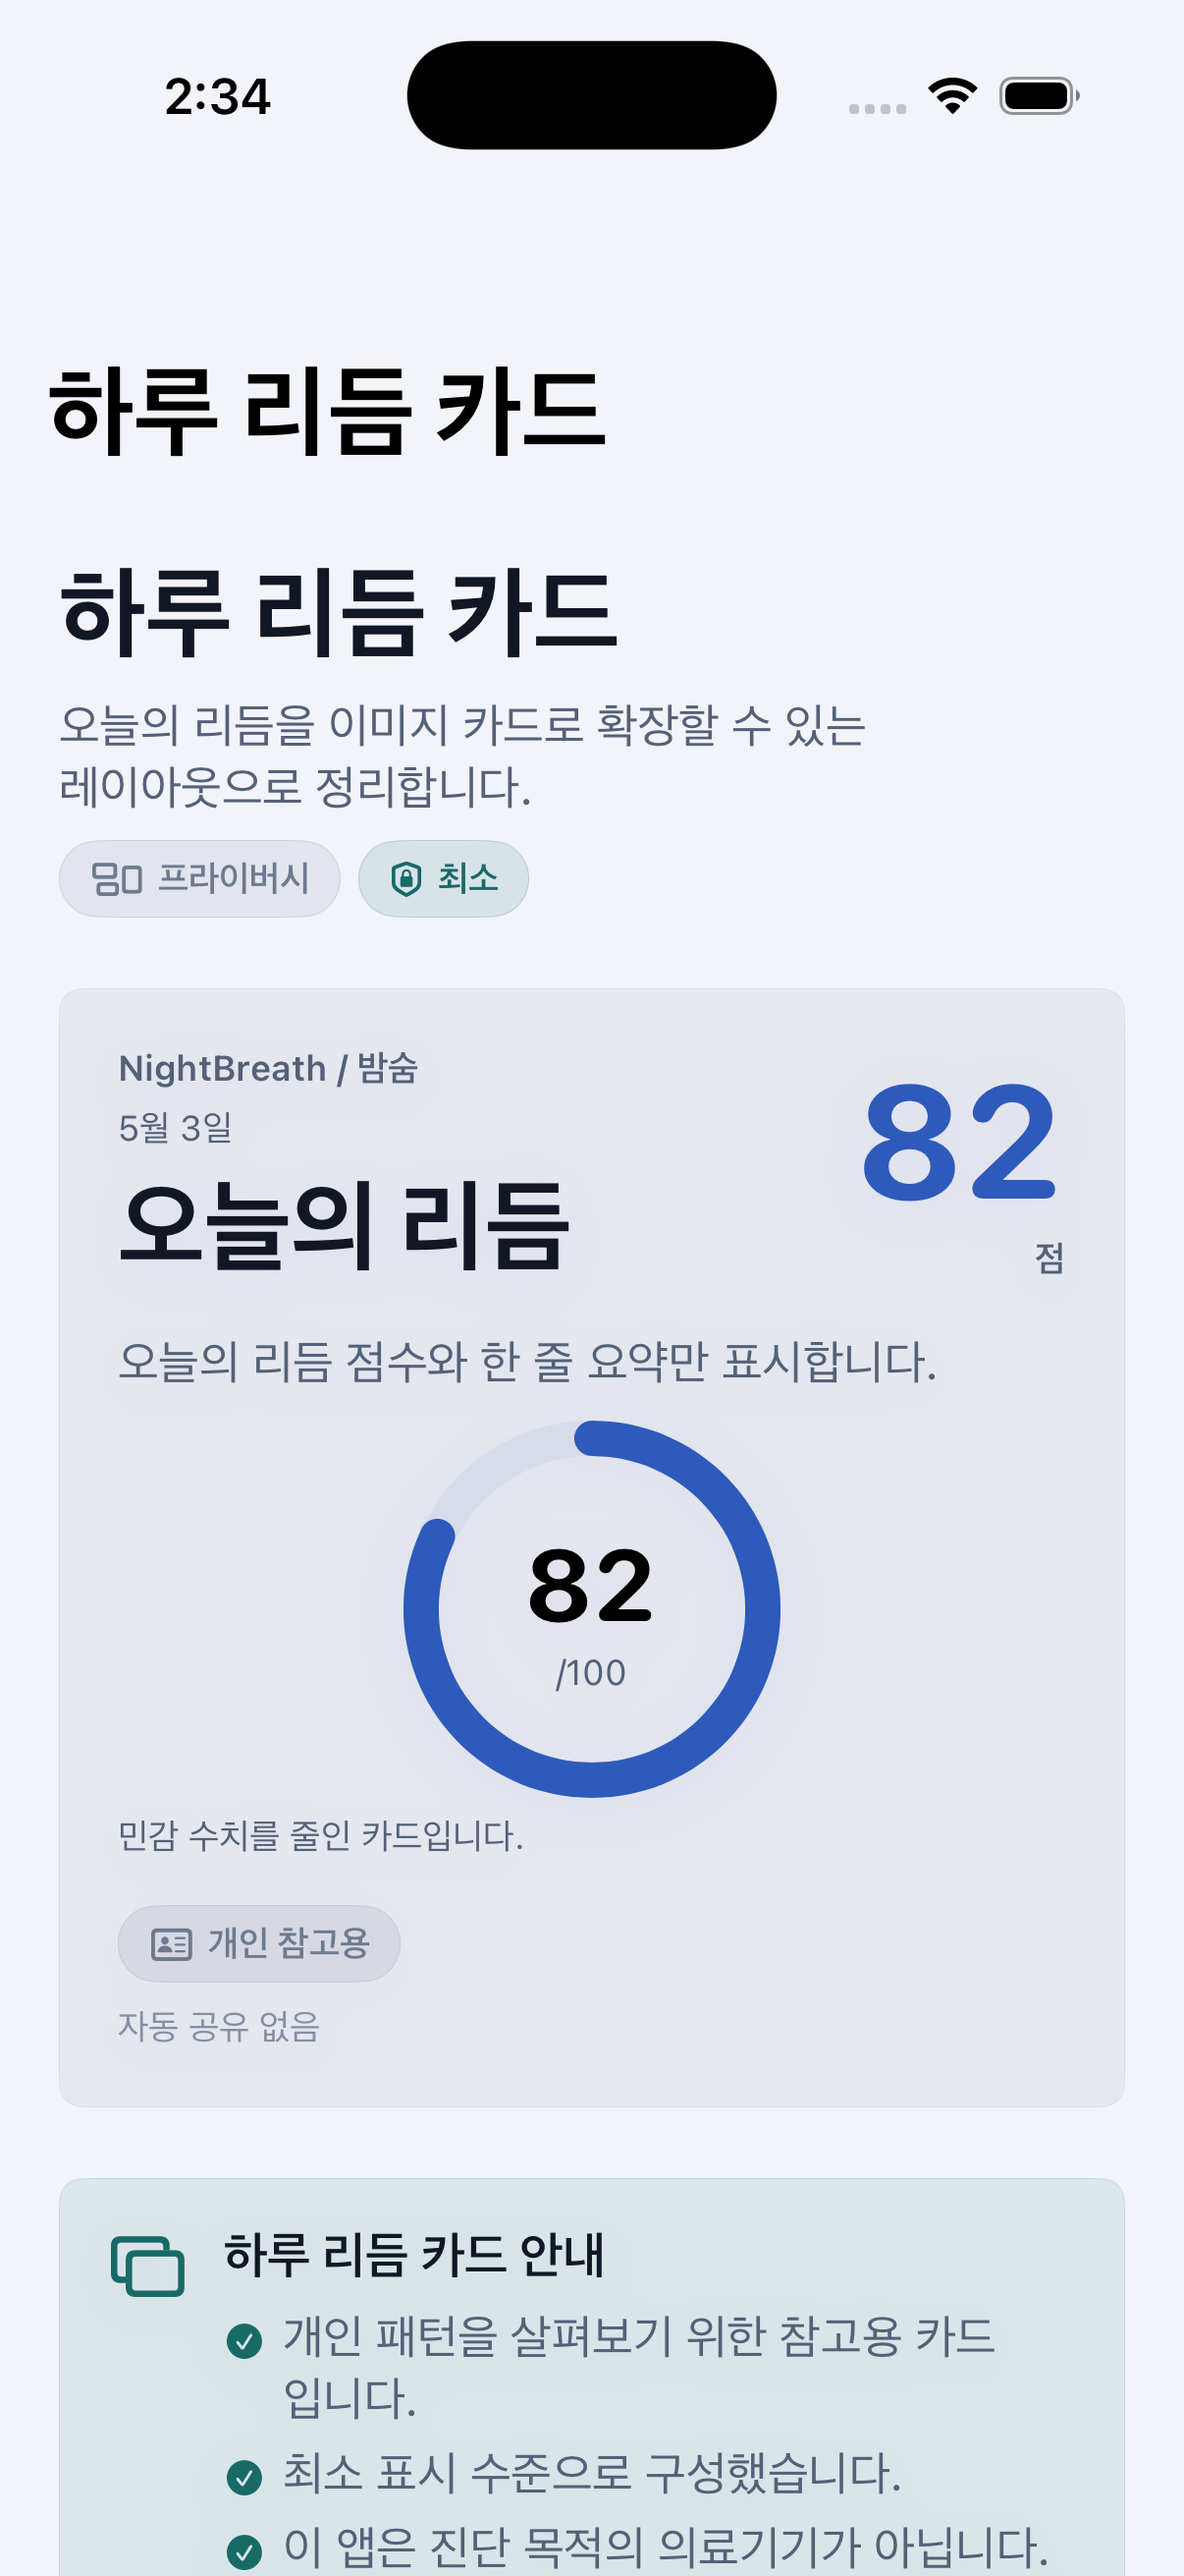
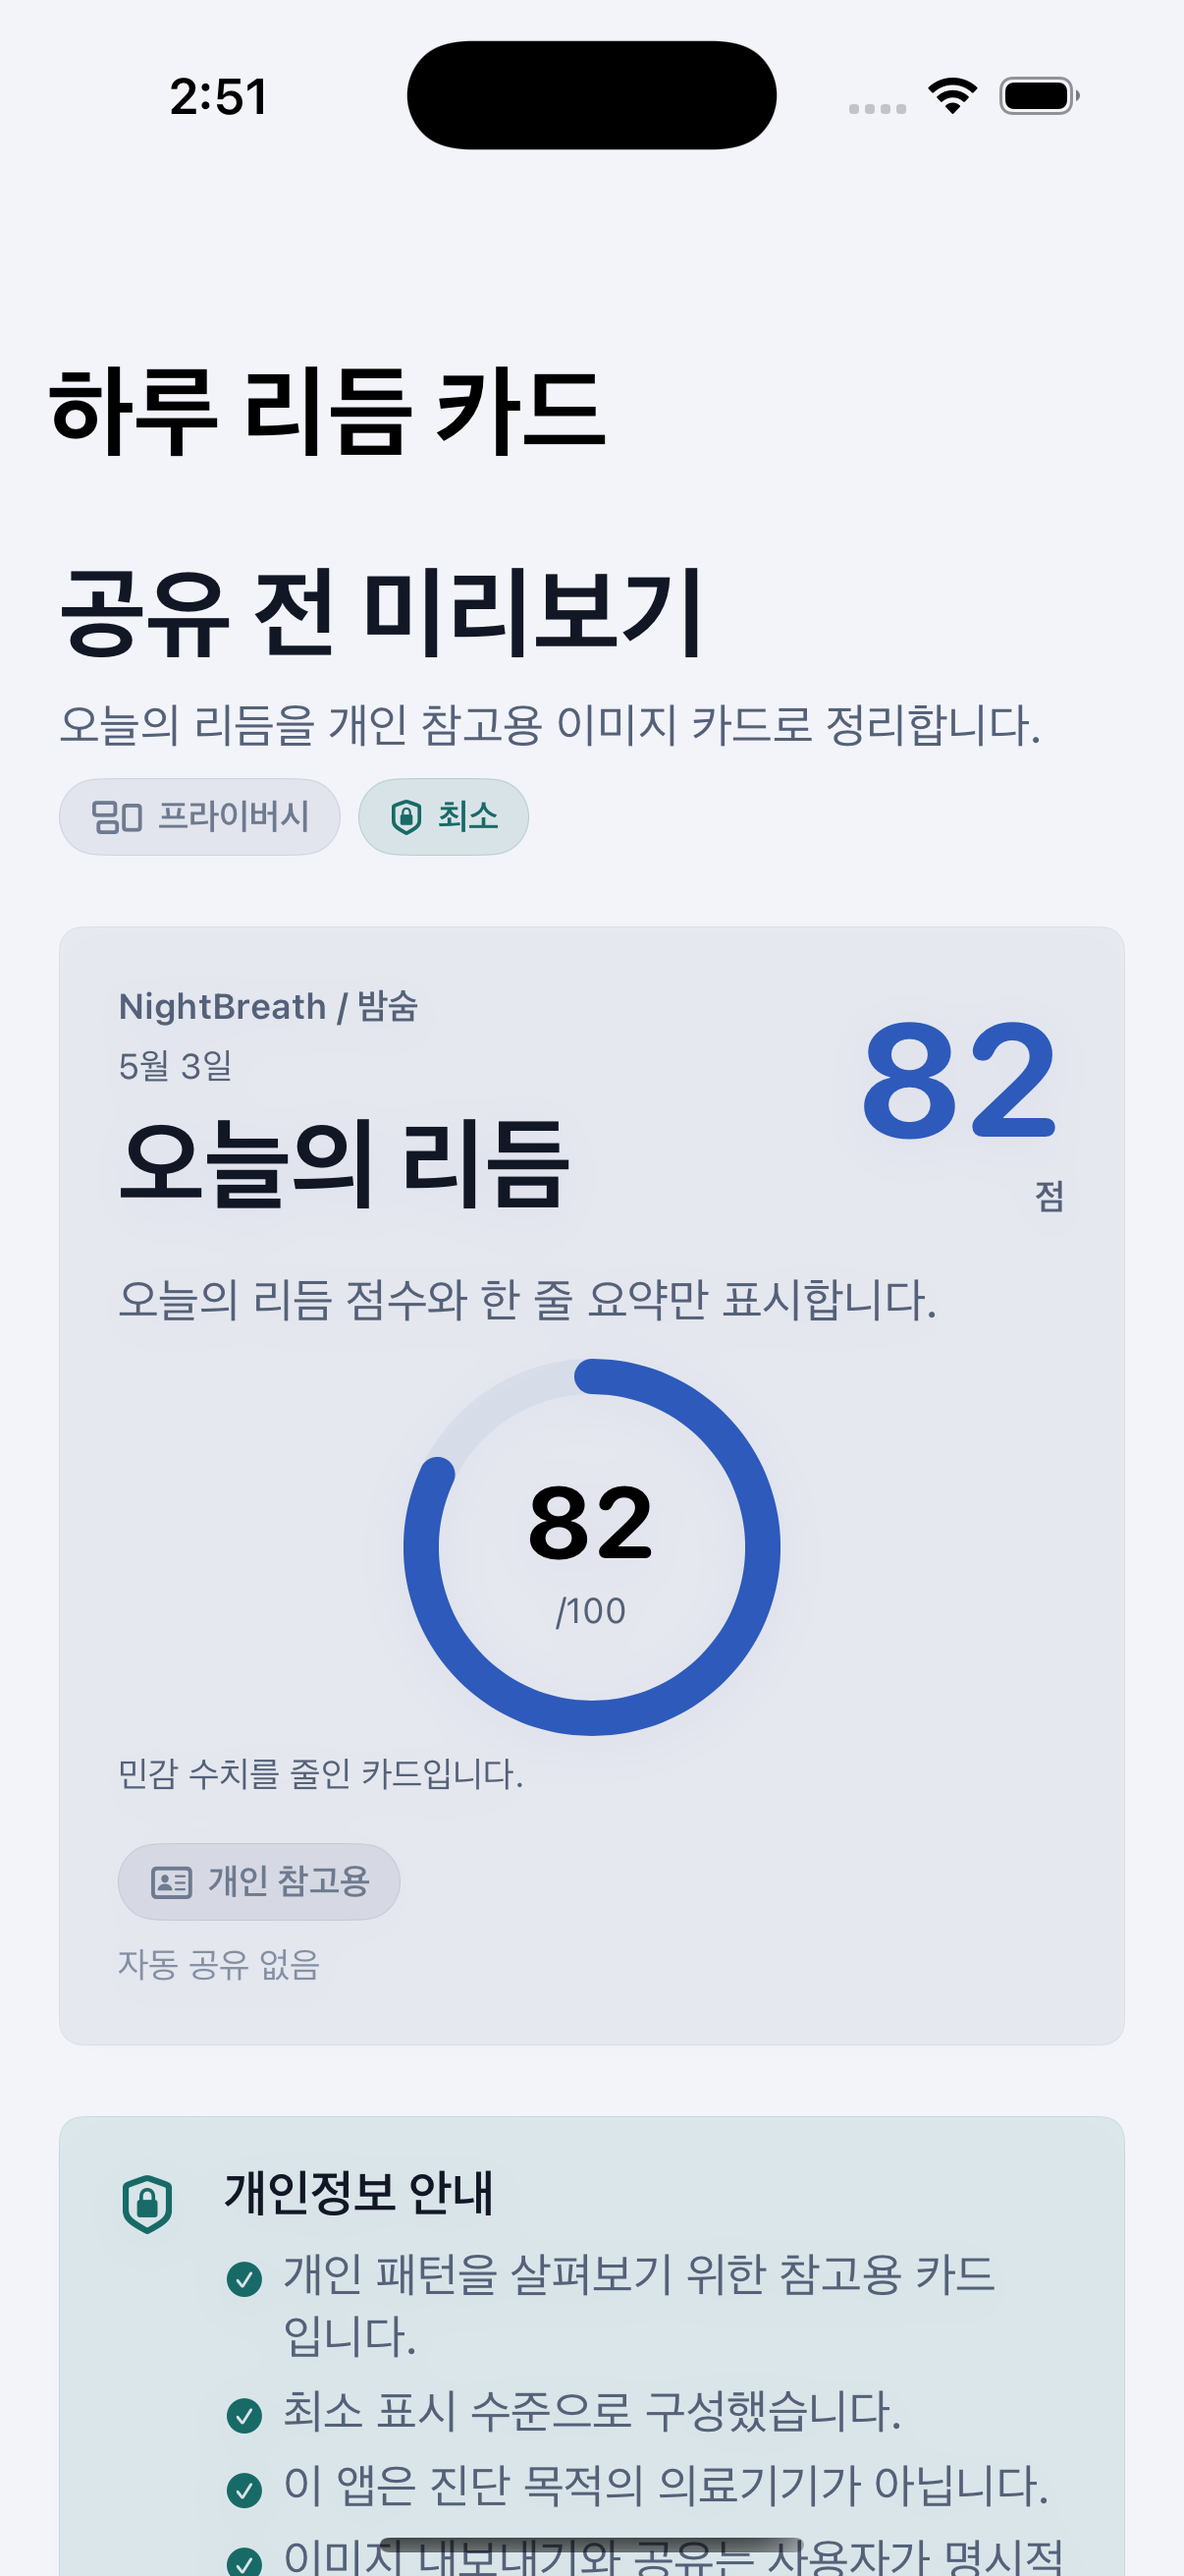
Remove repeated daily card heading

diff --git a/SleepSoundApp/Features/DailyRhythm/DailyHealthCardView.swift b/SleepSoundApp/Features/DailyRhythm/DailyHealthCardView.swift
@@ -50,14 +50,14 @@ struct DailyHealthCardView: View {
         header
         DailyHealthCardSurface(content: content)
         NBPrivacyNoticeCard(
-          title: "하루 리듬 카드 안내",
+          title: "개인정보 안내",
           messages: [
             content.referenceText,
             "\(content.privacyLevel.displayName) 표시 수준으로 구성했습니다.",
             "이 앱은 진단 목적의 의료기기가 아닙니다.",
-            "이미지 내보내기와 공유는 사용자가 명시적으로 선택할 때만 진행하는 방향입니다.",
+            "이미지 내보내기와 공유는 사용자가 명시적으로 선택할 때만 진행합니다.",
           ],
-          systemImage: "rectangle.on.rectangle"
+          systemImage: "lock.shield"
         )
       }
       .padding(NBSpacing.screenHorizontal)
@@ -69,10 +69,10 @@ struct DailyHealthCardView: View {
 
   private var header: some View {
     VStack(alignment: .leading, spacing: NBSpacing.sm) {
-      Text("하루 리듬 카드")
+      Text("공유 전 미리보기")
         .font(NBTypography.titleLarge)
         .foregroundStyle(NBColor.primaryText)
-      Text("오늘의 리듬을 이미지 카드로 확장할 수 있는 레이아웃으로 정리합니다.")
+      Text("오늘의 리듬을 개인 참고용 이미지 카드로 정리합니다.")
         .font(NBTypography.callout)
         .foregroundStyle(NBColor.secondaryText)
       HStack(spacing: NBSpacing.xs) {

diff --git a/Tests/AppStoreReadinessTests.swift b/Tests/AppStoreReadinessTests.swift
@@ -471,6 +471,23 @@ struct AppStoreReadinessTests {
     }
 
     @Test
+    func dailyHealthCardScreenAvoidsRepeatedCardTitleCopy() throws {
+        let repositoryRoot = URL(fileURLWithPath: FileManager.default.currentDirectoryPath)
+        let cardView = try String(
+            contentsOf: repositoryRoot.appendingPathComponent("SleepSoundApp/Features/DailyRhythm/DailyHealthCardView.swift"),
+            encoding: .utf8
+        )
+
+        #expect(cardView.contains(".navigationTitle(\"하루 리듬 카드\")"))
+        #expect(cardView.contains("Text(\"공유 전 미리보기\")"))
+        #expect(cardView.contains("title: \"개인정보 안내\""))
+        #expect(cardView.contains("오늘의 리듬을 개인 참고용 이미지 카드로 정리합니다."))
+        #expect(!cardView.contains("Text(\"하루 리듬 카드\")"))
+        #expect(!cardView.contains("title: \"하루 리듬 카드 안내\""))
+        #expect(!cardView.contains("이미지 내보내기와 공유는 사용자가 명시적으로 선택할 때만 진행하는 방향입니다."))
+    }
+
+    @Test
     func appStoreConnectScreenshotExportWorkflowUsesRawSourceAndIgnoredDerivedOutput() throws {
         let repositoryRoot = URL(fileURLWithPath: FileManager.default.currentDirectoryPath)
         let exportScriptPath = repositoryRoot.appendingPathComponent("Tools/Screenshots/export_app_store_connect_screenshots.sh")
